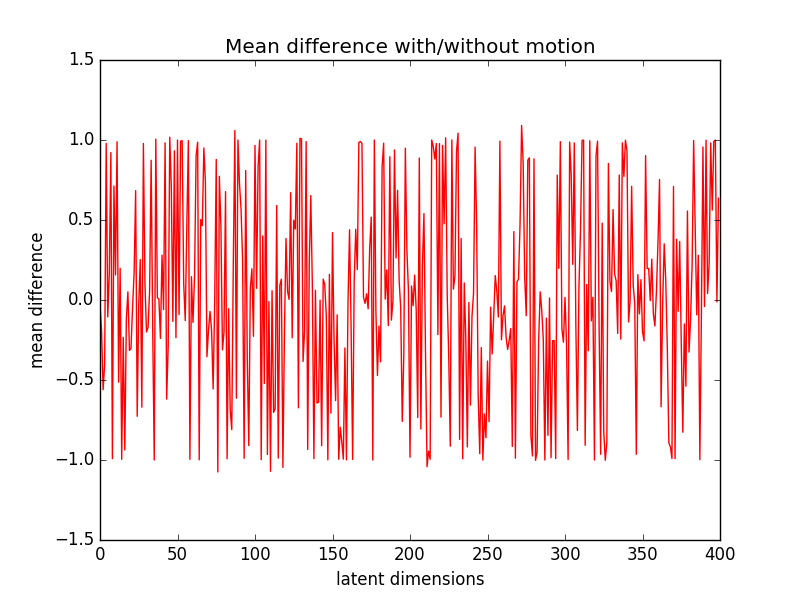
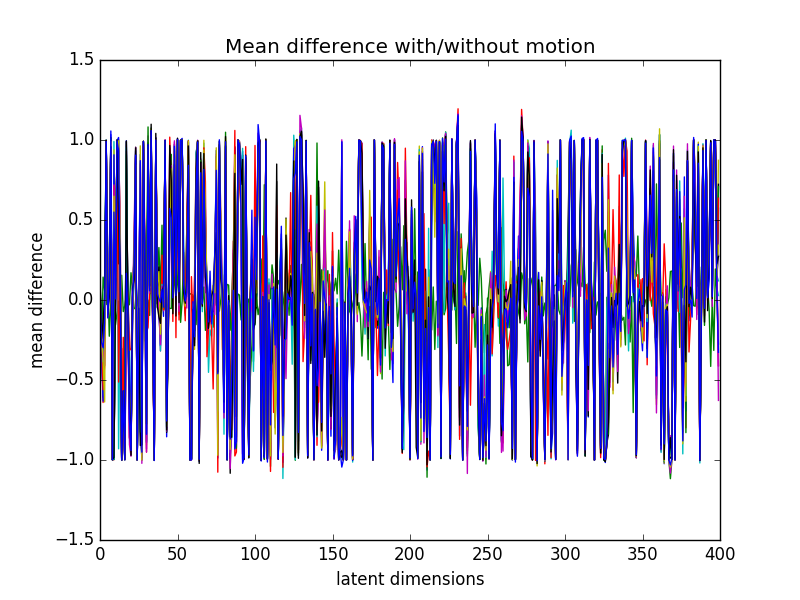
test

Changed region(s): [[0.125, 0.18, 0.9062, 0.78]]

diff --git a/RNN/utils/association_evaluation.py b/RNN/utils/association_evaluation.py
@@ -283,7 +283,6 @@ def eval_generation_from_label(model, data_iterator, cut=-1):
 				diff_by_label[i] = diff_by_label[i] + np.sum(diff[idx_label], axis=0)
 				diff_n[i] = diff_n[i] + n_d
 		del xs, idx, diff
-		break
 
 	x = range(model.latent_dim)
 	for i, n_d in enumerate(diff_n):
